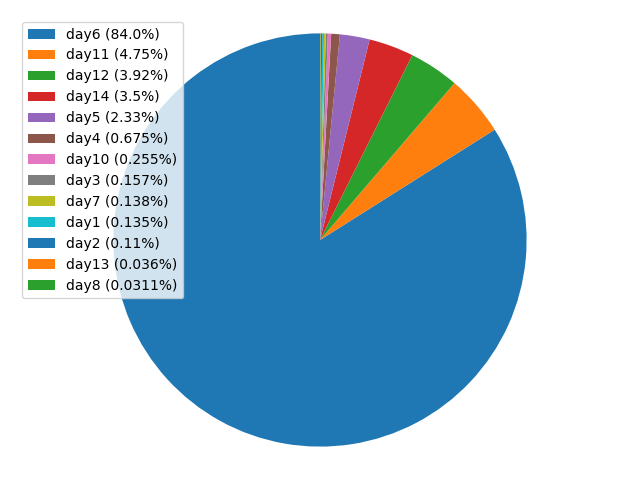
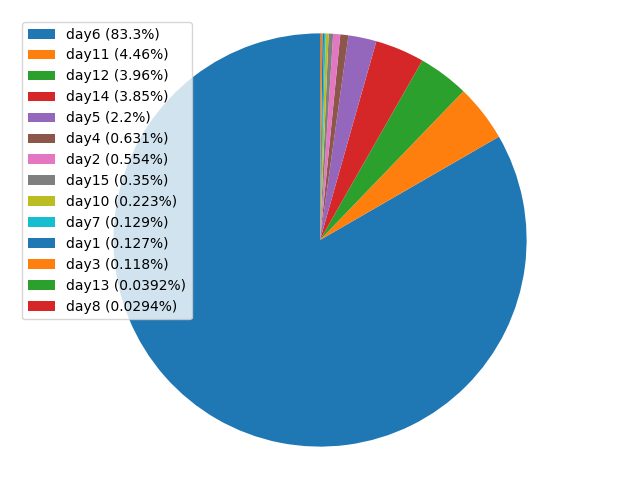
day 15

diff --git a/aoc/days/day15.py b/aoc/days/day15.py
@@ -1,0 +1,214 @@
+from pathlib import Path
+from aoc.util import read, file, bench, env
+
+CURR_DAY: int = 15
+INPUT_FILE_PATH: Path = file.input_path(CURR_DAY)
+TEST_FILE_PATH: Path = file.test_path(CURR_DAY)
+ONLY_TESTS: bool = env.is_set("TEST")
+
+
+MOVEMENTS: dict[str, tuple[int, int]] = {
+    "^": (-1, 0),
+    "<": (0, -1),
+    ">": (0, 1),
+    "v": (1, 0),
+}
+
+
+def tuple_add(lhs: tuple[int, int], rhs: tuple[int, int]) -> tuple[int, int]:
+    return (lhs[0] + rhs[0], lhs[1] + rhs[1])
+
+
+def tuple_sub(lhs: tuple[int, int], rhs: tuple[int, int]) -> tuple[int, int]:
+    return (lhs[0] - rhs[0], lhs[1] - rhs[1])
+
+
+def double(c: str) -> tuple[str, str]:
+    match c:
+        case "@":
+            return ("@", ".")
+        case "O":
+            return ("[", "]")
+        case _:
+            return (c, c)
+
+
+# add every field to be moved to the list, and returns if they are free to move
+def move_box(
+    field: list[list[str]],
+    b: tuple[int, int],
+    dir: tuple[int, int],
+    to_move: list[tuple[int, int]],
+) -> bool:
+    bli, bcol = b
+
+    if field[bli][bcol] == "[":
+        oli, ocol = (bli, bcol + 1)
+    elif field[bli][bcol] == "]":
+        oli, ocol = (bli, bcol - 1)
+    elif field[bli][bcol] == ".":
+        return True
+    else:
+        return False
+
+    next = tuple_add(b, dir)
+    if not move_box(field, next, dir, to_move):
+        return False
+    onext = tuple_add((oli, ocol), dir)
+    if not move_box(field, onext, dir, to_move):
+        return False
+
+    to_move.append((bli, bcol))
+    to_move.append((oli, ocol))
+
+    return True
+
+
+def task2(input: str) -> int:
+    f, instr = input.split("\n\n", 1)
+    field: list[list[str]] = []
+    for x in f.splitlines():
+        temp: list[str] = []
+        for c in x:
+            a, b = double(c)
+            temp.append(a)
+            temp.append(b)
+        field.append(temp)
+
+    robot: tuple[int, int] = (0, 0)
+
+    for li, line in enumerate(field):
+        for col, c in enumerate(line):
+            if c == "@":
+                robot = (li, col)
+
+    for i in instr:
+        if i == "\n":
+            continue
+        dli, dcol = MOVEMENTS[i]
+        nli, ncol = tuple_add((dli, dcol), robot)
+        match field[nli][ncol]:
+            case "#" | "@":
+                continue
+            case ".":
+                field[robot[0]][robot[1]] = "."
+                field[nli][ncol] = "@"
+                robot = (nli, ncol)
+            case "[" | "]":
+                if i == "^" or i == "v":
+                    to_move: list[tuple[int, int]] = []
+                    if not move_box(field, (nli, ncol), (dli, dcol), to_move):
+                        continue
+
+                    # deduplicate
+                    seen = set()
+                    to_move = [x for x in to_move if not (x in seen or seen.add(x))]
+                    # swap every box with its neighbor below or above
+                    for bli, bcol in to_move:
+                        nbli, nbcol = tuple_add((bli, bcol), (dli, dcol))
+                        field[bli][bcol], field[nbli][nbcol] = (
+                            field[nbli][nbcol],
+                            field[bli][bcol],
+                        )
+
+                else:
+                    bli, bcol = (nli, ncol)
+                    while field[bli][bcol] == "[" or field[bli][bcol] == "]":
+                        bli, bcol = tuple_add((bli, bcol), (dli, dcol))
+
+                    # if there is a wall, break
+                    if field[bli][bcol] == "#":
+                        continue
+
+                    # move each box one to the right
+                    while (bli, bcol) != (nli, ncol):
+                        prevli, prevcol = tuple_sub((bli, bcol), (dli, dcol))
+                        field[bli][bcol], field[prevli][prevcol] = (
+                            field[prevli][prevcol],
+                            field[bli][bcol],
+                        )
+                        bli, bcol = prevli, prevcol
+
+                # move the robot one to the right
+                field[robot[0]][robot[1]] = "."
+                field[nli][ncol] = "@"
+                robot = (nli, ncol)
+
+    gps_sum: int = 0
+    for li, line in enumerate(field):
+        for col, c in enumerate(line):
+            if c == "[":
+                gps_sum += 100 * li + col
+
+    return gps_sum
+
+
+def task1(input: str) -> int:
+    f, instr = input.split("\n\n", 1)
+    field: list[list[str]] = [[c for c in line] for line in f.splitlines()]
+
+    robot: tuple[int, int] = (0, 0)
+
+    for li, line in enumerate(field):
+        if "@" in line:
+            for col, c in enumerate(line):
+                if c == "@":
+                    robot = (li, col)
+
+    for i in instr:
+        if i == "\n":
+            continue
+        dli, dcol = MOVEMENTS[i]
+        nli, ncol = tuple_add((dli, dcol), robot)
+        match field[nli][ncol]:
+            case "#" | "@":
+                continue
+            case ".":
+                field[robot[0]][robot[1]] = "."
+                field[nli][ncol] = "@"
+                robot = (nli, ncol)
+            case "O":
+                bli, bcol = (nli, ncol)
+                # find the furthest box
+                while field[bli][bcol] == "O":
+                    bli, bcol = tuple_add((bli, bcol), (dli, dcol))
+                # if there is a wall, break
+                if field[bli][bcol] == "#":
+                    continue
+                # move each box one to the right
+                while (bli, bcol) != (nli, ncol):
+                    prevli, prevcol = tuple_sub((bli, bcol), (dli, dcol))
+                    field[bli][bcol], field[prevli][prevcol] = (
+                        field[prevli][prevcol],
+                        field[bli][bcol],
+                    )
+                    bli, bcol = prevli, prevcol
+                # move the robot one to the right
+                field[robot[0]][robot[1]] = "."
+                field[nli][ncol] = "@"
+                robot = (nli, ncol)
+
+    gps_sum: int = 0
+    for li, line in enumerate(field):
+        for col, c in enumerate(line):
+            if c == "O":
+                gps_sum += 100 * li + col
+
+    return gps_sum
+
+
+@bench.timer
+def day15() -> None:
+    test: str = read.to_string(TEST_FILE_PATH)
+    input: str = read.to_string(INPUT_FILE_PATH)
+
+    print("test1:", task1(test))
+    print("test2:", task2(test))
+
+    if not ONLY_TESTS:
+        print("task1:", task1(input))
+        print("task2:", task2(input))
+
+
+if __name__ == "__main__":
+    day15()

diff --git a/README.md b/README.md
@@ -1,7 +1,7 @@
 # Advent of Code 2024
 
-![](https://img.shields.io/badge/stars%20⭐-28-yellow)
-![](https://img.shields.io/badge/days%20completed-14-red)
+![](https://img.shields.io/badge/stars%20⭐-30-yellow)
+![](https://img.shields.io/badge/days%20completed-15-red)
 
 This Repository contains some solutions for advent of code 2024 as well as a CLI to make some things easier.  
 Feel free to use the solutions, as well as the rest of this repo for whatever you want.
